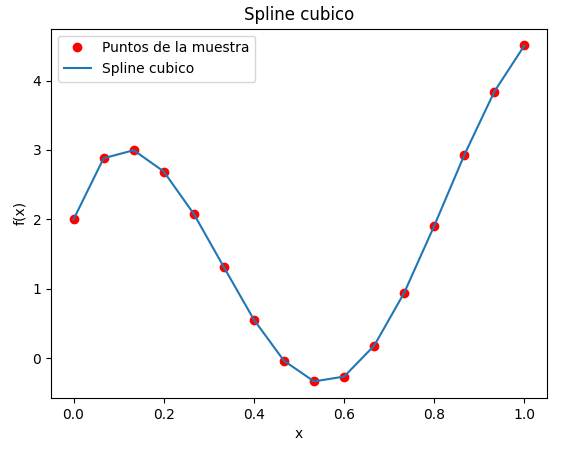
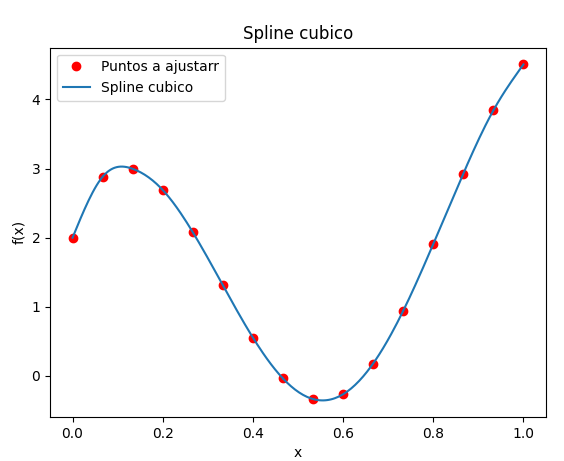
Done

diff --git a/spline.py b/spline.py
@@ -9,7 +9,8 @@ import bisect
 import math
 import time
 
-from colors import bcolors
+from gauss_elimination  import gauss_elimination
+from colors             import bcolors
 
 
 # Spline lineal para la interpolacion de funciones 1D
@@ -72,105 +73,109 @@ def linear_spline (x_i, f_i) :
     return poly_i
     
 
-# Spline cubico para interpolacion de funciones de 1D
-def get_cubic_spline (x_i, f_i):
-    initial_time = time.time()
+def get_cubic_spline (x_i, f_i) :
+    """
+    Interpola funciones 1D usando un spline cubico
+    x_i : Coordenadas x a ser evaluadas en f(x) y a ser interpolados 
+    f_i : Valores o salidas de la funcion
 
-    n       = len(x_i) # Obtenemos la longitud de nuestros datos
-    h_i     = get_h_diff(x_i) # obtenemos los cambios para obtener la 
-    A, B, C = create_tridiagonal_matrix(n, h_i) # creamos la matriz triagonal
-    D       = get_d_values(n, h_i, f_i) # obtenemos los dj valores para obtener las soluciones de la matriz tridiagonal
-    M       = triadiagonal_matrix_solution(A, B, C, D) # obtenemos las soluciones de la matriz
+    Se deben de sumar polinomio de la forma, 
+    Pi(x) = ax**3 + bx**2 + cx + d
+    """
+    n = len(x_i)
 
-    coefficients = [[(M[i + 1] - M[i]) * h_i[i] * h_i[i] / 6, M[i] * h_i[i] * h_i[i] / 2,\
-                    (f_i[i + 1] - f_i[i] - (M[i + 1] + 2 * M[i]) * h_i[i] * h_i[i] / 6),\
-                    f_i[i]] for i in range(n-1)]
+    # Creamos la matriz h
+    h = np.zeros(n - 1, float)
 
-    # print("Coefficients: ", coefficients)
-
-    """ Wrapper parra obtener el spline """
-    def spline(val):
-        idx = min(bisect.bisect(x_i, val) - 1, n - 2)
-        z = (val - x_i[idx]) / h_i[idx]
-        C = coefficients[idx]
-        return (((C[0] * z) + C[1]) * z + C[2]) * z + C[3]
-
-    cubic_spline_y  = [spline(y) for y in x_i]
+    # Formamos la matriz h
+    for j in range(0, n - 1) :
+        h[j] = x_i[j+1] - x_i[j]
     
-    """ Obtenemos los tiempos finales que tardo el algoritmo """
-    final_time  = time.time()
-    diff        = final_time - initial_time
-    print(f"{bcolors.WARNING}"'Spline cubico: El tiempo que tardo en solucionar el problema con ', n, ' puntos fue de ', diff, ' segundos')
+    # Declaramos las matrices que resolveremos por gauss
+    A = np.zeros((n - 2, n - 2), float)
+    B = np.zeros(n - 2, float)
+    S = np.zeros(n, float)
+    
+    # Asignamos los primeros elementos
+    A[0, 0] = 2 * (h[0] + h[1])
+    A[0, 1] = h[1]
+    B[0]    = 6 * ((f_i[2] - f_i[1]) / h[1] - (f_i[1] - f_i[0]) / h[0])
 
-    """ Graficamos spline cubico """
-    plt.figure('Spline cubico')
+    # Empezamos a formar las matrices
+    for i in range(1, n-3):
+        A[i, i - 1] = h[i]
+        A[i, i]     = 2 * (h[i] + h[i + 1])
+        A[i, i + 1] = h[i + 1]
+        factor_2_1  = (f_i[i + 2] - f_i[i + 1]) / h[i + 1]
+        factor_1_0  = (f_i[i + 1] - f_i[i]) / h[i]
+        B[i]        = 6 * (factor_2_1 - factor_1_0)
+        
+    A[n - 3, n - 4] = h[n - 3]
+    A[n - 3, n - 3] = 2 * (h[n - 3] + h[n - 2])
+    factor_1_2  = (f_i[n - 1] - f_i[n - 2]) / h[n - 2]
+    factor_2_3  = (f_i[n - 2] - f_i[n - 3]) / h[n - 3]
+    B[n - 3]    = 6 * (factor_1_2 - factor_2_3)
+    
+    solutions = np.linalg.solve(A, B)
+
+    for j in range(1, n - 1) :
+        S[j] = solutions[j - 1]
+
+    S[0]        = 0
+    S[n - 1]    = 0
+    
+
+    a_c = np.zeros(n-1, dtype = float)
+    b = np.zeros(n-1, dtype = float)
+    c = np.zeros(n-1, dtype = float)
+    d = np.zeros(n-1, dtype = float)
+
+    for j in range(0, n - 1) :
+        a_c[j]  = (S[j + 1] - S[j]) / (6 * h[j])
+        b[j]    = S[j] / 2
+        factor_1_0 = (f_i[j + 1] - f_i[j]) / h[j]
+        c[j] = factor_1_0 - (2 * h[j] * S[j] + h[j] * S[j + 1]) / 6
+        d[j] = f_i[j]
+    
+    """ Indicamos que el x sera simbolica y la evaluaremos posteriormente"""
+    x = sym.Symbol('x')
+    
+    all_cubic_polys = []
+
+    for j in range(0,n-1,1):
+        cubic_poly = a_c[j] * (x - x_i[j]) ** 3 + b[j] * (x - x_i[j]) ** 2
+        cubic_poly = cubic_poly + c[j] * (x - x_i[j]) + d[j]
+        
+        cubic_poly = cubic_poly.expand()
+        all_cubic_polys.append(cubic_poly)
+            
+    """Graficamos los polinomios cubicos con sus respectivos dominios """
+    x_poly_i    = np.array([])
+    y_poly_i    = np.array([])
+    step        = 1
+
+    while not(step >= n):
+        x_temp_i = x_i[step - 1]
+        y_temp_i = x_i[step]
+        x_temp   = np.linspace(x_temp_i, y_temp_i, n)
+
+        # evalua polinomio del tramo
+        cubic_poly_i = all_cubic_polys[step - 1]
+        cubic_poly_t = sym.lambdify('x', cubic_poly_i) 
+        f_i_t = cubic_poly_t(x_temp)
+
+        # vectores de trazador en x,y
+        x_poly_i = np.concatenate((x_poly_i, x_temp))
+        y_poly_i = np.concatenate((y_poly_i, f_i_t))
+        step = step + 1
+
+    """ Grafiamos los polinomios cubicos """
+    plt.plot(x_i, f_i, 'o', color = 'red', label = 'Puntos a ajustarr')
+    plt.plot(x_poly_i, y_poly_i, label = 'Spline cubico')
     plt.title('Spline cubico')
     plt.xlabel('x')
     plt.ylabel('f(x)')
-    plt.plot(x_i, f_i, 'o', color = 'red', label = 'Puntos de la muestra')
-    plt.plot(x_i, cubic_spline_y, label = 'Spline cubico')
     plt.legend()
     plt.show()
-    return spline
 
-
-def create_tridiagonal_matrix (n, h) :
-    """
-    Interpola funciones 1D usando un spline cubico
-    x_i     : Coordenadas x a ser evaluadas en f(x) y a ser interpolados 
-    f_i     : Valores o salidas de la funcion
-    spline  : Regresa los valores evaluados del spline cubico
-    """
-    A = np.zeros(n - 1)
-    B = np.zeros(n)
-    C = np.zeros(n - 1)
-
-    for i in range(n - 2) : 
-        A[i] = h[i] / (h[i] + h[i + 1])
-
-    A[n - 2] = 0
-    
-    for j in range(n) : 
-        B[j] = 2 
-   
-    C = [0] + [h[i + 1] / (h[i] + h[i + 1]) for i in range(n - 2)]
-    return A, B, C
-
-
-# Obtenemos las h[j] = x[j + 1] - x[j] de todos lo datos 
-def get_h_diff (x) :
-    h = np.zeros(len(x))
-    for i in range(len(x) - 1) :
-        h[i] = x[i + 1] - x[i]
-    return h
-
-
-# Obtenemos los d[j] valores
-# d = d[0] + sum(6((y[j + 1] - y[j]/ h[i]) - (y[j] - y[i - 1])/h[j - 1]) / h[j] + h[j - 1]) + d[n]
-# donde d[0] = d[n] = 0 
-def get_d_values (n, h, y) :
-    return [0] + [6 * ((y[i + 1] - y[i]) / h[i] - (y[i] - y[i - 1]) / h[i - 1]) / (h[i] + h[i-1]) for i in range(1, n - 1)] + [0]
-
-
-## Obtenemos las soluciones de la matriz triadiagonal
-def triadiagonal_matrix_solution (A, B, C, D):
-    c_p = C + [0]
-    d_p = np.zeros(len(B), float)
-    X   = np.zeros(len(B), float)
-
-    c_p[0] = C[0] / B[0]
-    d_p[0] = D[0] / B[0]
-
-    for i in range(1, len(B)):
-        c_p[i] = c_p[i] / (B[i] - c_p[i - 1] * A[i - 1])
-        d_p[i] = (D[i] - d_p[i - 1] * A[i - 1]) / (B[i] - c_p[i - 1] * A[i - 1])
-
-    # Realizamos la solucion hacia atras, de la ultima variable
-    X[-1] = d_p[-1] # Primer elemento de la solucion
-
-    # Vamos solucionando el sistema de adelante hacia atras
-    for i in range(len(B) - 2, -1, -1):
-        X[i] = d_p[i] - c_p[i] * X[i + 1]
-    
-    
-    return X
+    return(all_cubic_polys)

diff --git a/interpolation.py b/interpolation.py
@@ -35,21 +35,21 @@ def space_gen(x_min, x_max, samples):
 if __name__ == '__main__':
     print(f"{bcolors.OKCYAN}******************** START ********************{bcolors.ENDC}")
 
-    samples = 64 # 16, 32, 64 # Definimos los numeros de puntos deseados
+    samples = 16 # 16, 32, 64 # Definimos los numeros de puntos deseados
 
 
     print(f"{bcolors.OKGREEN}******************** PRIMERA PARTE A) ********************{bcolors.ENDC}")
     """ Interpolación con espaciamiento 
         regular e irregular de 16, 32, 64 puntos """
     # (x_i, step) = np.linspace(0, 360, samples, retstep = True) # Espaciamiento regular de 0 - 2*Pi
-    (x_i, step) = np.linspace(0, 1, samples, dtype = float, retstep = True) # Espaciamiento regular de 0 - 1
-    # x_i = space_gen(0, 2 * np.pi, samples) # Espaciamiento aleatorio de 0 - 2*Pi 
+    # (x_i, step) = np.linspace(0, 1, samples, dtype = float, retstep = True) # Espaciamiento regular de 0 - 1
+    x_i = space_gen(0, 2 * np.pi, samples) # Espaciamiento aleatorio de 0 - 2*Pi 
     # x_i = space_gen(0, 1, samples) # Espaciamiento aleatorio de 0 - 1
 
 
     """ Funcion f(x) """
-    # f_i = 2 * np.cos(x_i) + np.sin(x_i) + np.sqrt(x_i)
-    f_i = 2 * np.cos(2 * np.pi * x_i) + np.sin(2 * np.pi * x_i) + np.sqrt(2 * np.pi * x_i)
+    f_i = 2 * np.cos(x_i) + np.sin(x_i) + np.sqrt(x_i)
+    # f_i = 2 * np.cos(2 * np.pi * x_i) + np.sin(2 * np.pi * x_i) + np.sqrt(2 * np.pi * x_i)
 
     
     """ Grafica - puntos a ajustar ------------------------------------------"""
@@ -59,9 +59,11 @@ if __name__ == '__main__':
     plt.xlabel('x')
     plt.xlabel('y')
     plt.plot(x_i, f_i, 'x', color = "purple") 
-    # plt.show()
+    plt.show()
     """ ---------------------------------------------------------------------- """
 
+    """ Si deseas probar, tienes que descomentar un dominio, un rango y el metodo
+        de interpolacion o spline que desees, todo esta seccionado por metodo """
 
     """ Polinomio de interpolacion -------------- """
     # dom_interpol_poly       = np.linspace(0, 360, samples) # Dominio regular de 0 - 2 * Pi
@@ -89,11 +91,11 @@ if __name__ == '__main__':
     """ Spline lineal ------------------------------------------------ """
     # dom_linear_spline     = np.linspace(0, 360, samples) # Dominio regular de 0 - 2*Pi
     # dom_linear_spline     = np.linspace(0, 1, samples, dtype = float) # Espaciamiento regular de 0 - 1
-    # dom_linear_spline     = space_gen(0, 360, samples) # Dominio con espaciamiento aleatorio de 0 - 2*Pi
+    dom_linear_spline     = space_gen(0, 360, samples) # Dominio con espaciamiento aleatorio de 0 - 2*Pi
     # dom_linear_spline     = space_gen(0, 1, samples) # Dominio con espaciamiento aleatorio de 0 - 1
-    # range_linear_spline   = 2 * np.cos(dom_linear_spline) + np.sin(dom_linear_spline) + np.sqrt(dom_linear_spline) # Funcion a aproximar
+    range_linear_spline   = 2 * np.cos(dom_linear_spline) + np.sin(dom_linear_spline) + np.sqrt(dom_linear_spline) # Funcion a aproximar
     # range_linear_spline   = 2 * np.cos(2 * np.pi * dom_linear_spline) + np.sin(2 * np.pi * dom_linear_spline) + np.sqrt(2 * np.pi * dom_linear_spline) # Otra funcion a aproximar
-    # linear_poly = linear_spline(dom_linear_spline, range_linear_spline)
+    linear_poly = linear_spline(dom_linear_spline, range_linear_spline)
     """ ---------------------------------------------------------------------- """
 
 
@@ -101,10 +103,10 @@ if __name__ == '__main__':
     # dom_cubic_spline  = np.linspace(0, 360, samples) # Dominio regular de 0 - 2*Pi
     # dom_cubic_spline  = np.linspace(0, 1, samples, dtype = float) # Espaciamiento regular de 0 - 1
     # dom_cubic_spline  = space_gen(0, 360, samples) # Dominio con espaciamiento aleatorio de 0 - 2*Pi
-    dom_cubic_spline    = space_gen(0, 1, samples) # Dominio con espaciamiento aleatorio de 0 - 1
-    range_cubic_spline  = 2 * np.cos(dom_cubic_spline) + np.sin(dom_cubic_spline) + np.sqrt(dom_cubic_spline) # Funcion a aproximar
+    # dom_cubic_spline    = space_gen(0, 1, samples) # Dominio con espaciamiento aleatorio de 0 - 1
+    # range_cubic_spline  = 2 * np.cos(dom_cubic_spline) + np.sin(dom_cubic_spline) + np.sqrt(dom_cubic_spline) # Funcion a aproximar
     # range_cubic_spline  = 2 * np.cos(2 * np.pi * dom_cubic_spline) + np.sin(2 * np.pi * dom_cubic_spline) + np.sqrt(2 * np.pi * dom_cubic_spline) # Otra funcion a aproximar
-    cubic_spline        = get_cubic_spline(dom_cubic_spline, range_cubic_spline)
+    # cubic_spline        = get_cubic_spline(dom_cubic_spline, range_cubic_spline)
     """ ---------------------------------------------------------------------- """
     ## ----------------------------------------------------------------------
     print(f"{bcolors.OKCYAN}\n******************** END ********************{bcolors.ENDC}")

diff --git a/gauss_elimination.py b/gauss_elimination.py
@@ -1,9 +1,13 @@
 """ Author: Alberto Hernández López """
 ''' Eliminación Gaussiana con pivoteo parcial '''
 
-from    numpy           import * # Para manejar matrices 
+from numpy import * # Para manejar matrices 
 
-
+""""
+Esencialmente este código fue la primera versión de mi tarea 1
+sin embargo, tuve algunos problemas con la integración con la 
+tarea 1 así que, decidí dejarlo con su versión 1.
+"""
 # Metodo de eliminacion gaussiana
 def gauss_elimination (a, b, exercise_number = "NA") :
     n = len(b)
@@ -25,8 +29,7 @@ def gauss_elimination (a, b, exercise_number = "NA") :
             for j in range(k, n):
                 a[i,j] = a[k, j] - a[i, j] * factor
             b[i] = b[k] - b[i] * factor
-    print(a)
-    print(b)
+            
 
     x[n - 1] = b[n - 1] / a[n - 1, n - 1]
     for i in range(n - 2, -1, -1):
@@ -37,6 +40,5 @@ def gauss_elimination (a, b, exercise_number = "NA") :
             
         x[i] = (b[i] - sum_ax) / a[i, i]
 
-    print("La solucion es de la matriz es:")
-    print(x)
+    print("La solucion es \n:", x)
     return x
